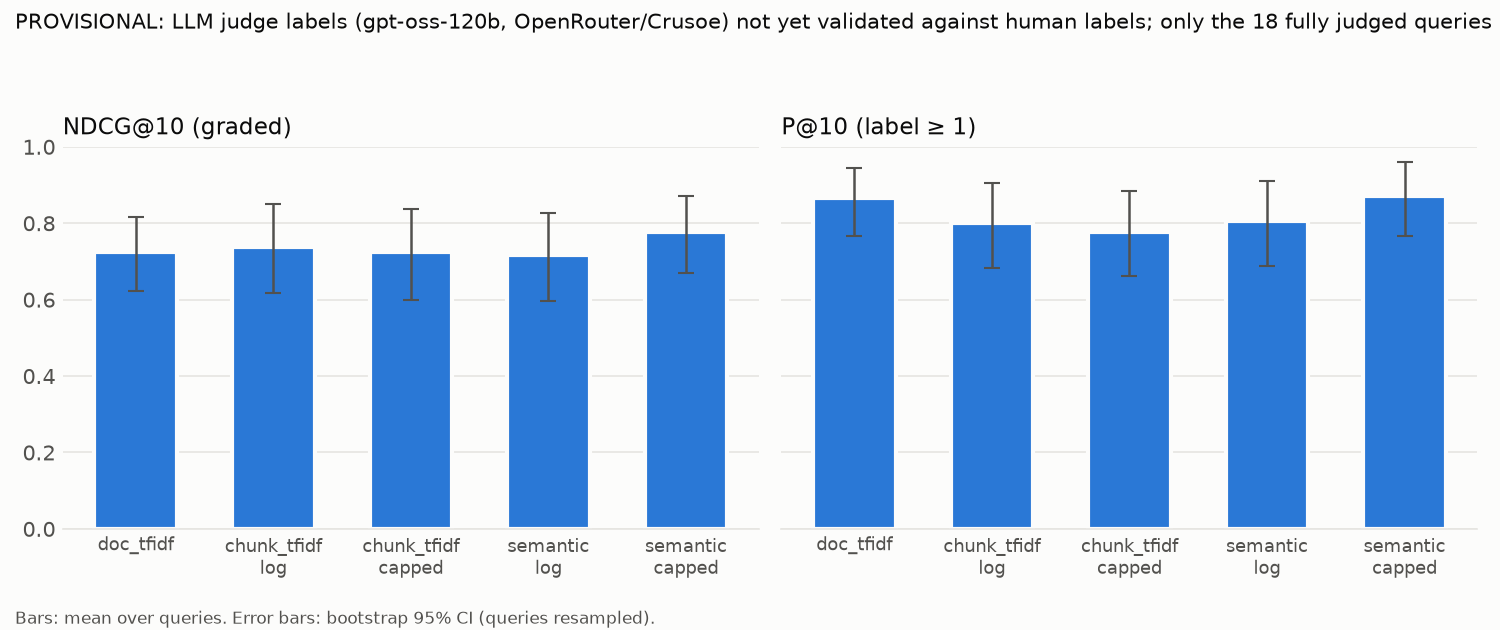
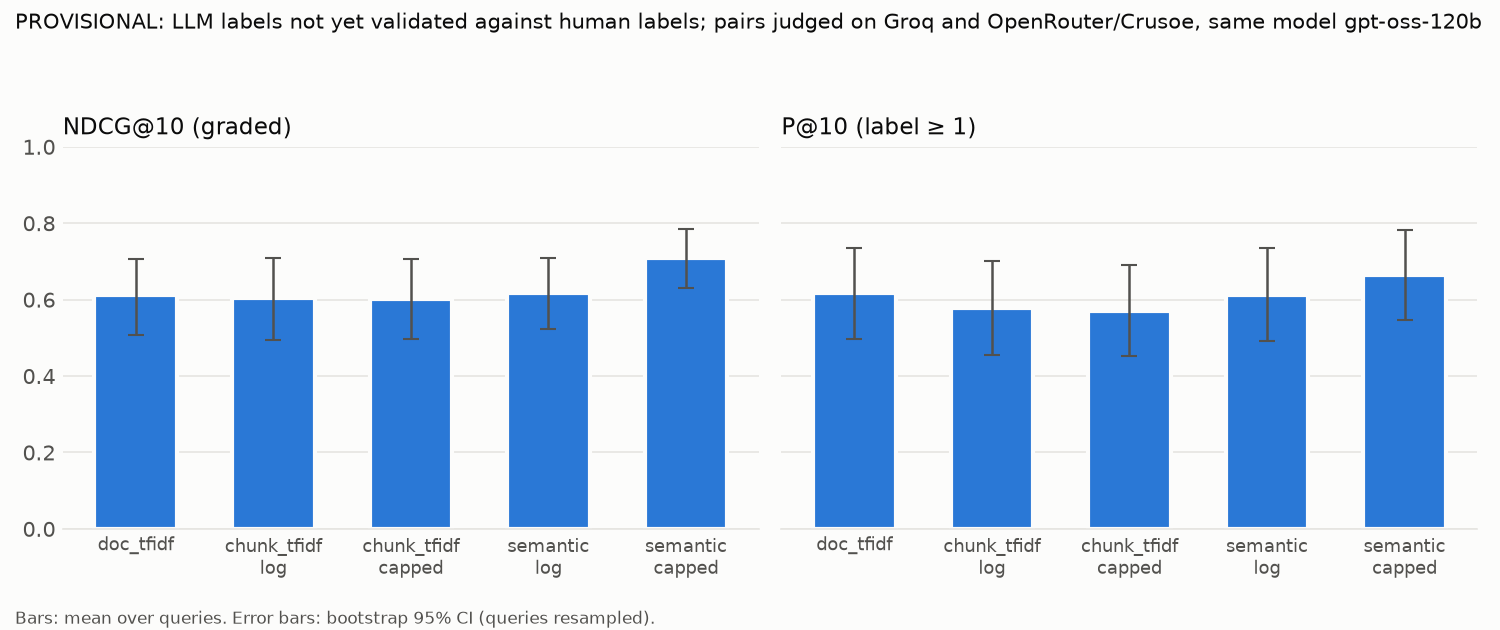
Provisional metrics on all 35 queries (LLM-judge labels, not yet validated)
All 964 pool pairs judged by gpt-oss-120b (low effort, batch 1, same prompt hash): by source: openrouter/crusoe 559, groq 324, rule 81. PROVISIONAL: LLM labels not yet validated against human labels; pairs judged on Groq and OpenRouter/Crusoe, same model gpt-oss-120b.

diff --git a/reports/metrics_summary.md b/reports/metrics_summary.md
@@ -1,46 +1,45 @@
 # Retrieval metrics (PROVISIONAL)
 
-> **PROVISIONAL:** LLM judge labels (gpt-oss-120b, OpenRouter/Crusoe) not yet validated against human labels; only the 18 fully judged queries (Q01-Q18: single diet and mixed group) are scored, because OpenRouter credits ran out mid-run
+> **PROVISIONAL:** LLM labels not yet validated against human labels; pairs judged on Groq and OpenRouter/Crusoe, same model gpt-oss-120b
 
-- Runs: `/Users/kang/Documents/GitHub/NYC-Restaurant-Discovery/eval/runs.csv`; labels: `eval/llm_labels.jsonl` (640 labeled pairs); queries: `eval/queries_final.csv`
-- 18 queries, 5 systems, top 10 per system; macro averages over queries
+- Runs: `/Users/kang/Documents/GitHub/NYC-Restaurant-Discovery/eval/runs.csv`; labels: `eval/llm_labels.jsonl` (964 labeled pairs); queries: `eval/queries_final.csv`
+- Labels by source: openrouter/crusoe 559, groq 324, rule 81 (rule = no evidence shown, labeled 0 without a model call)
+- 35 queries, 5 systems, top 10 per system; macro averages over queries
 - Relevance: strict = label 2, lenient = label ≥ 1
 - NDCG: gain = label (0, 1, 2); DCG@10 = sum_{i=1..10} gain_i / log2(i + 1); NDCG@10 = DCG@10 / IDCG@10; IDCG from the best ordering of the query's judged pool
 - Significance: paired randomization (sign-flip, 10,000 resamples) on per-query NDCG@10, Holm-adjusted across the 10 system pairs; percentile bootstrap 95% CIs; seed 6165
 
 Every top-10 result is judged (0 unjudged).
 
-> **Partial: 17 queries left out** because some top-10 results are not judged yet (--complete-only): Q19, Q20, Q21, Q22, Q23, Q24, Q25, Q26, Q27, Q28, Q29, Q30, Q31, Q32, Q33, Q34, Q35. Category tables cover only the remaining queries.
-
 ## By system
 
 | System | P@5 strict | P@5 lenient | P@10 strict | P@10 lenient [95% CI] | NDCG@10 [95% CI] | R@10 strict | R@10 lenient | Unjudged |
 |---|---|---|---|---|---|---|---|---|
-| doc_tfidf | 0.600 | 0.844 | 0.606 | 0.867 [0.767, 0.944] | 0.726 [0.623, 0.817] | 0.388 | 0.378 | 0 |
-| chunk_tfidf_log | 0.622 | 0.789 | 0.628 | 0.800 [0.683, 0.906] | 0.737 [0.617, 0.850] | 0.382 | 0.341 | 0 |
-| chunk_tfidf_capped | 0.600 | 0.767 | 0.606 | 0.778 [0.661, 0.883] | 0.723 [0.600, 0.837] | 0.370 | 0.330 | 0 |
-| semantic_log | 0.556 | 0.811 | 0.550 | 0.806 [0.689, 0.911] | 0.717 [0.596, 0.827] | 0.367 | 0.351 | 0 |
-| semantic_capped | 0.589 | 0.833 | 0.600 | 0.872 [0.767, 0.961] | 0.777 [0.669, 0.872] | 0.383 | 0.379 | 0 |
+| doc_tfidf | 0.446 | 0.629 | 0.429 | 0.617 [0.497, 0.734] | 0.612 [0.508, 0.706] | 0.474 | 0.420 | 0 |
+| chunk_tfidf_log | 0.446 | 0.589 | 0.437 | 0.577 [0.454, 0.700] | 0.603 [0.495, 0.710] | 0.425 | 0.381 | 0 |
+| chunk_tfidf_capped | 0.440 | 0.583 | 0.437 | 0.571 [0.451, 0.691] | 0.603 [0.496, 0.708] | 0.438 | 0.387 | 0 |
+| semantic_log | 0.423 | 0.657 | 0.394 | 0.611 [0.491, 0.734] | 0.616 [0.524, 0.709] | 0.354 | 0.401 | 0 |
+| semantic_capped | 0.446 | 0.686 | 0.426 | 0.666 [0.546, 0.783] | 0.708 [0.631, 0.785] | 0.431 | 0.481 | 0 |
 
 ## NDCG@10 by query category
 
-| System | single_diet (n=12) | mixed_group (n=6) | allergy (n=0) | diet_plus_filter (n=0) |
+| System | single_diet (n=12) | mixed_group (n=8) | allergy (n=11) | diet_plus_filter (n=4) |
 |---|---|---|---|---|
-| doc_tfidf | 0.762 | 0.653 | n/a | n/a |
-| chunk_tfidf_log | 0.848 | 0.515 | n/a | n/a |
-| chunk_tfidf_capped | 0.811 | 0.548 | n/a | n/a |
-| semantic_log | 0.747 | 0.655 | n/a | n/a |
-| semantic_capped | 0.807 | 0.719 | n/a | n/a |
+| doc_tfidf | 0.762 | 0.608 | 0.363 | 0.853 |
+| chunk_tfidf_log | 0.848 | 0.460 | 0.388 | 0.746 |
+| chunk_tfidf_capped | 0.811 | 0.485 | 0.392 | 0.793 |
+| semantic_log | 0.747 | 0.665 | 0.471 | 0.525 |
+| semantic_capped | 0.807 | 0.709 | 0.565 | 0.807 |
 
 ## P@10 lenient by query category
 
-| System | single_diet (n=12) | mixed_group (n=6) | allergy (n=0) | diet_plus_filter (n=0) |
+| System | single_diet (n=12) | mixed_group (n=8) | allergy (n=11) | diet_plus_filter (n=4) |
 |---|---|---|---|---|
-| doc_tfidf | 0.875 | 0.850 | n/a | n/a |
-| chunk_tfidf_log | 0.883 | 0.633 | n/a | n/a |
-| chunk_tfidf_capped | 0.850 | 0.633 | n/a | n/a |
-| semantic_log | 0.792 | 0.833 | n/a | n/a |
-| semantic_capped | 0.842 | 0.933 | n/a | n/a |
+| doc_tfidf | 0.875 | 0.750 | 0.245 | 0.600 |
+| chunk_tfidf_log | 0.883 | 0.550 | 0.282 | 0.525 |
+| chunk_tfidf_capped | 0.850 | 0.550 | 0.291 | 0.550 |
+| semantic_log | 0.792 | 0.812 | 0.300 | 0.525 |
+| semantic_capped | 0.842 | 0.887 | 0.336 | 0.600 |
 
 ## Paired comparisons (NDCG@10)
 
@@ -48,32 +47,41 @@ Difference = B − A, over queries where both are defined.
 
 | A | B | n | mean A | mean B | B − A [95% CI] | p | p (Holm) | B better / worse / tie |
 |---|---|---|---|---|---|---|---|---|
-| doc_tfidf | chunk_tfidf_log | 18 | 0.726 | 0.737 | 0.012 [-0.104, 0.124] | 0.844 | 1.000 | 10 / 6 / 2 |
-| doc_tfidf | chunk_tfidf_capped | 18 | 0.726 | 0.723 | -0.002 [-0.119, 0.109] | 0.972 | 1.000 | 10 / 7 / 1 |
-| doc_tfidf | semantic_log | 18 | 0.726 | 0.717 | -0.009 [-0.171, 0.159] | 0.919 | 1.000 | 8 / 10 / 0 |
-| doc_tfidf | semantic_capped | 18 | 0.726 | 0.777 | 0.052 [-0.076, 0.184] | 0.471 | 1.000 | 8 / 9 / 1 |
-| chunk_tfidf_log | chunk_tfidf_capped | 18 | 0.737 | 0.723 | -0.014 [-0.041, 0.012] | 0.360 | 1.000 | 3 / 9 / 6 |
-| chunk_tfidf_log | semantic_log | 18 | 0.737 | 0.717 | -0.021 [-0.166, 0.106] | 0.782 | 1.000 | 9 / 8 / 1 |
-| chunk_tfidf_log | semantic_capped | 18 | 0.737 | 0.777 | 0.040 [-0.096, 0.154] | 0.579 | 1.000 | 10 / 6 / 2 |
-| chunk_tfidf_capped | semantic_log | 18 | 0.723 | 0.717 | -0.007 [-0.157, 0.128] | 0.928 | 1.000 | 8 / 9 / 1 |
-| chunk_tfidf_capped | semantic_capped | 18 | 0.723 | 0.777 | 0.054 [-0.088, 0.175] | 0.463 | 1.000 | 10 / 6 / 2 |
-| semantic_log | semantic_capped | 18 | 0.717 | 0.777 | 0.061 [0.003, 0.131] | 0.093 | 0.927 | 10 / 4 / 4 |
+| doc_tfidf | chunk_tfidf_log | 35 | 0.612 | 0.603 | -0.009 [-0.094, 0.073] | 0.843 | 1.000 | 18 / 14 / 3 |
+| doc_tfidf | chunk_tfidf_capped | 35 | 0.612 | 0.603 | -0.009 [-0.088, 0.069] | 0.834 | 1.000 | 18 / 15 / 2 |
+| doc_tfidf | semantic_log | 35 | 0.612 | 0.616 | 0.005 [-0.119, 0.126] | 0.945 | 1.000 | 20 / 15 / 0 |
+| doc_tfidf | semantic_capped | 35 | 0.612 | 0.708 | 0.097 [0.004, 0.191] | 0.053 | 0.368 | 20 / 13 / 2 |
+| chunk_tfidf_log | chunk_tfidf_capped | 35 | 0.603 | 0.603 | -0.000 [-0.018, 0.018] | 0.984 | 1.000 | 9 / 12 / 14 |
+| chunk_tfidf_log | semantic_log | 35 | 0.603 | 0.616 | 0.013 [-0.096, 0.112] | 0.812 | 1.000 | 22 / 12 / 1 |
+| chunk_tfidf_log | semantic_capped | 35 | 0.603 | 0.708 | 0.105 [0.019, 0.185] | 0.018 | 0.165 | 23 / 8 / 4 |
+| chunk_tfidf_capped | semantic_log | 35 | 0.603 | 0.616 | 0.013 [-0.096, 0.113] | 0.811 | 1.000 | 20 / 14 / 1 |
+| chunk_tfidf_capped | semantic_capped | 35 | 0.603 | 0.708 | 0.105 [0.018, 0.187] | 0.021 | 0.166 | 23 / 8 / 4 |
+| semantic_log | semantic_capped | 35 | 0.616 | 0.708 | 0.092 [0.032, 0.166] | 0.002 | 0.024 | 20 / 6 / 9 |
 
 ## Density mode: log vs capped
 
 ### chunk_tfidf_log → chunk_tfidf_capped
 
-NDCG@10 0.737 → 0.723; difference -0.014 [-0.041, 0.012], p = 0.360 (unadjusted); capped better on 3, worse on 9, tied on 6 queries.
+NDCG@10 0.603 → 0.603; difference -0.000 [-0.018, 0.018], p = 0.984 (unadjusted); capped better on 9, worse on 12, tied on 14 queries.
 
 | Query | Category | log | capped | Δ |
 |---|---|---|---|---|
 | Q11 | single_diet | 0.572 | 0.418 | -0.154 |
+| Q24 | allergy | 0.269 | 0.392 | +0.123 |
+| Q30 | diet_plus_filter | 0.181 | 0.304 | +0.123 |
 | Q05 | single_diet | 1.000 | 0.905 | -0.095 |
 | Q06 | single_diet | 0.732 | 0.640 | -0.092 |
 | Q17 | mixed_group | 0.682 | 0.771 | +0.090 |
 | Q08 | single_diet | 0.897 | 0.808 | -0.089 |
 | Q13 | mixed_group | 0.842 | 0.927 | +0.085 |
+| Q26 | allergy | 0.436 | 0.358 | -0.078 |
+| Q28 | diet_plus_filter | 0.961 | 1.000 | +0.039 |
+| Q32 | mixed_group | 0.276 | 0.311 | +0.035 |
 | Q14 | mixed_group | 0.567 | 0.596 | +0.029 |
+| Q27 | diet_plus_filter | 0.842 | 0.867 | +0.025 |
+| Q31 | mixed_group | 0.310 | 0.285 | -0.025 |
+| Q21 | allergy | 0.926 | 0.945 | +0.019 |
+| Q22 | allergy | 0.890 | 0.874 | -0.016 |
 | Q09 | single_diet | 0.812 | 0.800 | -0.012 |
 | Q15 | mixed_group | 0.237 | 0.229 | -0.008 |
 | Q16 | mixed_group | 0.614 | 0.611 | -0.003 |
@@ -85,30 +93,55 @@ NDCG@10 0.737 → 0.723; difference -0.014 [-0.041, 0.012], p = 0.360 (unadjuste
 | Q10 | single_diet | 0.470 | 0.470 | +0.000 |
 | Q12 | single_diet | 0.953 | 0.953 | +0.000 |
 | Q18 | mixed_group | 0.152 | 0.152 | +0.000 |
+| Q19 | allergy | 0.141 | 0.141 | +0.000 |
+| Q20 | allergy | 0.109 | 0.109 | +0.000 |
+| Q23 | allergy | 0.613 | 0.613 | +0.000 |
+| Q25 | allergy | 0.312 | 0.312 | +0.000 |
+| Q29 | diet_plus_filter | 1.000 | 1.000 | +0.000 |
+| Q33 | allergy | 0.274 | 0.274 | +0.000 |
+| Q34 | allergy | 0.000 | 0.000 | +0.000 |
+| Q35 | allergy | 0.296 | 0.296 | +0.000 |
 
 ### semantic_log → semantic_capped
 
-NDCG@10 0.717 → 0.777; difference 0.061 [0.003, 0.131], p = 0.093 (unadjusted); capped better on 10, worse on 4, tied on 4 queries.
+NDCG@10 0.616 → 0.708; difference 0.092 [0.032, 0.166], p = 0.002 (unadjusted); capped better on 20, worse on 6, tied on 9 queries.
 
 | Query | Category | log | capped | Δ |
 |---|---|---|---|---|
+| Q29 | diet_plus_filter | 0.000 | 1.000 | +1.000 |
 | Q02 | single_diet | 0.438 | 0.876 | +0.438 |
 | Q06 | single_diet | 0.576 | 0.953 | +0.377 |
+| Q20 | allergy | 0.402 | 0.744 | +0.342 |
+| Q23 | allergy | 0.307 | 0.613 | +0.307 |
+| Q34 | allergy | 0.246 | 0.503 | +0.257 |
 | Q18 | mixed_group | 0.293 | 0.462 | +0.170 |
 | Q11 | single_diet | 0.963 | 0.830 | -0.134 |
+| Q30 | diet_plus_filter | 0.280 | 0.398 | +0.118 |
 | Q09 | single_diet | 0.834 | 0.734 | -0.101 |
+| Q19 | allergy | 0.296 | 0.391 | +0.095 |
 | Q05 | single_diet | 0.708 | 0.794 | +0.085 |
 | Q14 | mixed_group | 0.922 | 1.000 | +0.078 |
+| Q28 | diet_plus_filter | 0.869 | 0.945 | +0.076 |
 | Q17 | mixed_group | 0.567 | 0.637 | +0.069 |
+| Q27 | diet_plus_filter | 0.953 | 0.884 | -0.068 |
 | Q16 | mixed_group | 0.598 | 0.666 | +0.068 |
 | Q13 | mixed_group | 0.882 | 0.828 | -0.053 |
 | Q15 | mixed_group | 0.670 | 0.720 | +0.050 |
+| Q32 | mixed_group | 0.864 | 0.830 | -0.035 |
 | Q07 | single_diet | 0.967 | 1.000 | +0.033 |
+| Q26 | allergy | 0.470 | 0.489 | +0.019 |
 | Q04 | single_diet | 0.778 | 0.796 | +0.018 |
+| Q24 | allergy | 0.518 | 0.533 | +0.015 |
 | Q12 | single_diet | 0.164 | 0.159 | -0.006 |
+| Q31 | mixed_group | 0.526 | 0.529 | +0.003 |
 | Q01 | single_diet | 1.000 | 1.000 | +0.000 |
 | Q03 | single_diet | 1.000 | 1.000 | +0.000 |
 | Q08 | single_diet | 1.000 | 1.000 | +0.000 |
 | Q10 | single_diet | 0.539 | 0.539 | +0.000 |
+| Q21 | allergy | 0.965 | 0.965 | +0.000 |
+| Q22 | allergy | 0.820 | 0.820 | +0.000 |
+| Q25 | allergy | 0.339 | 0.339 | +0.000 |
+| Q33 | allergy | 0.364 | 0.364 | +0.000 |
+| Q35 | allergy | 0.453 | 0.453 | +0.000 |
 
 Small query sets are noisy: treat differences whose CI includes 0 as unresolved.
